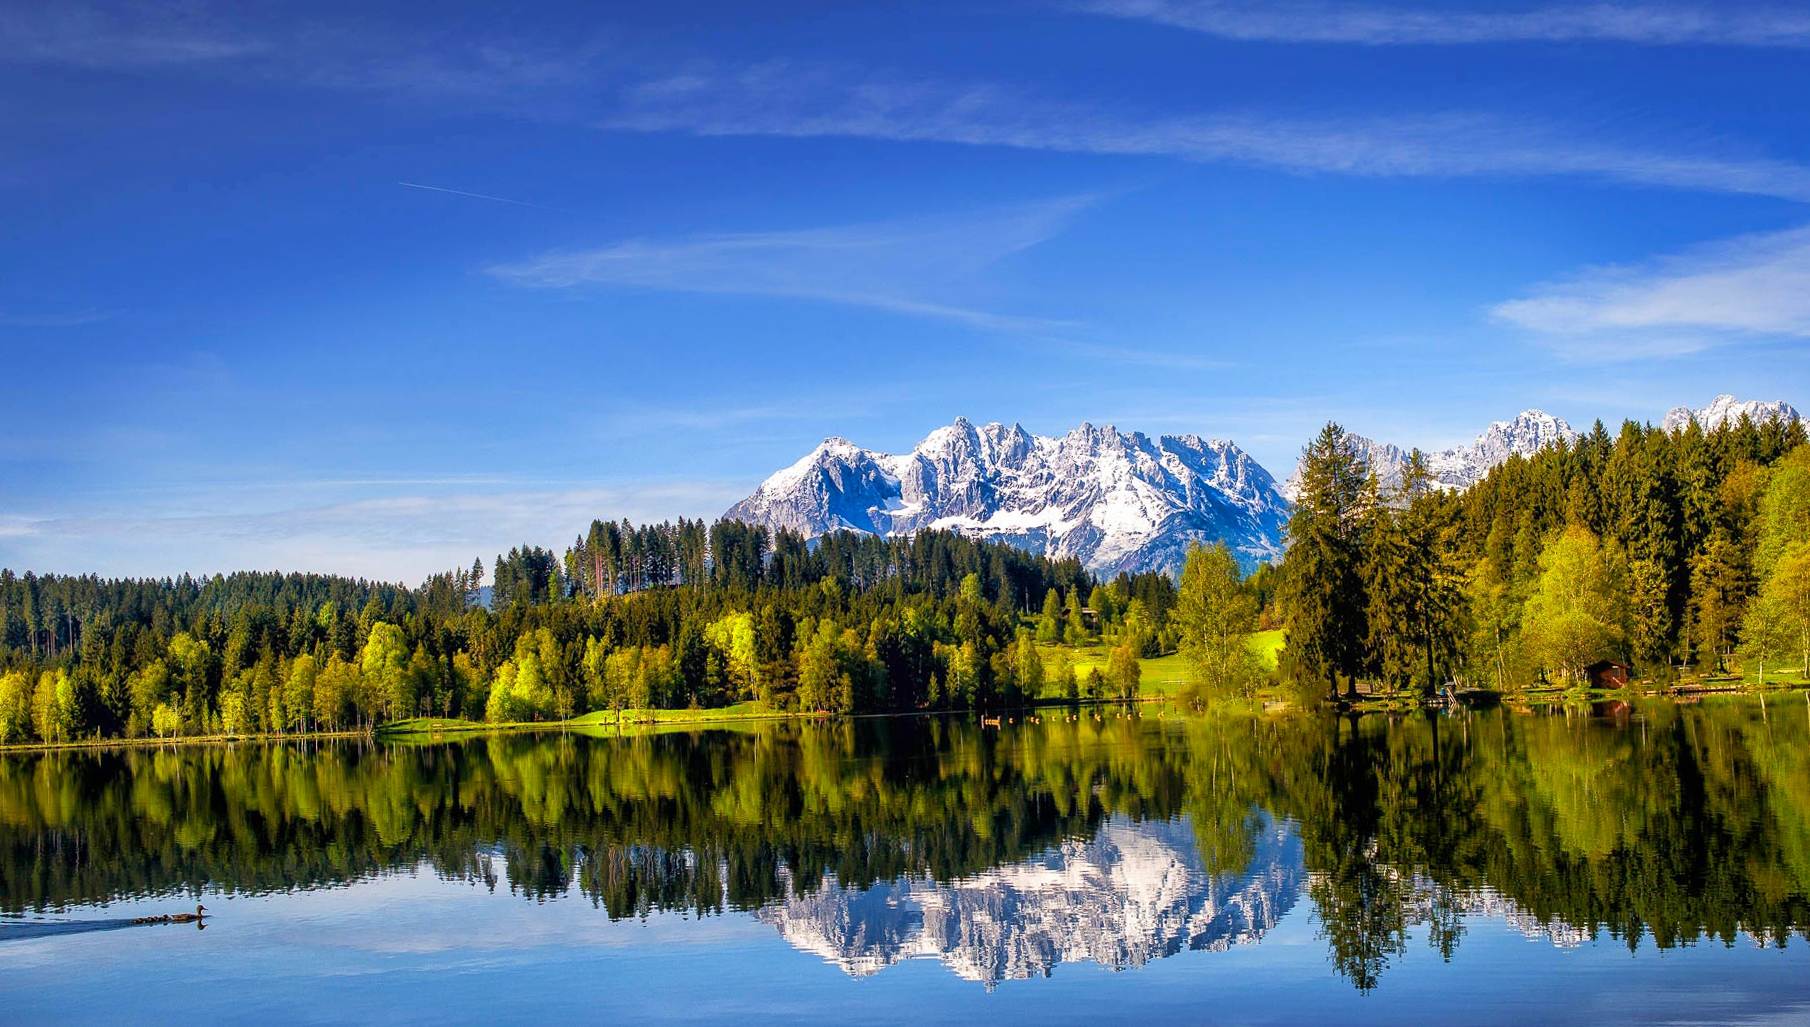
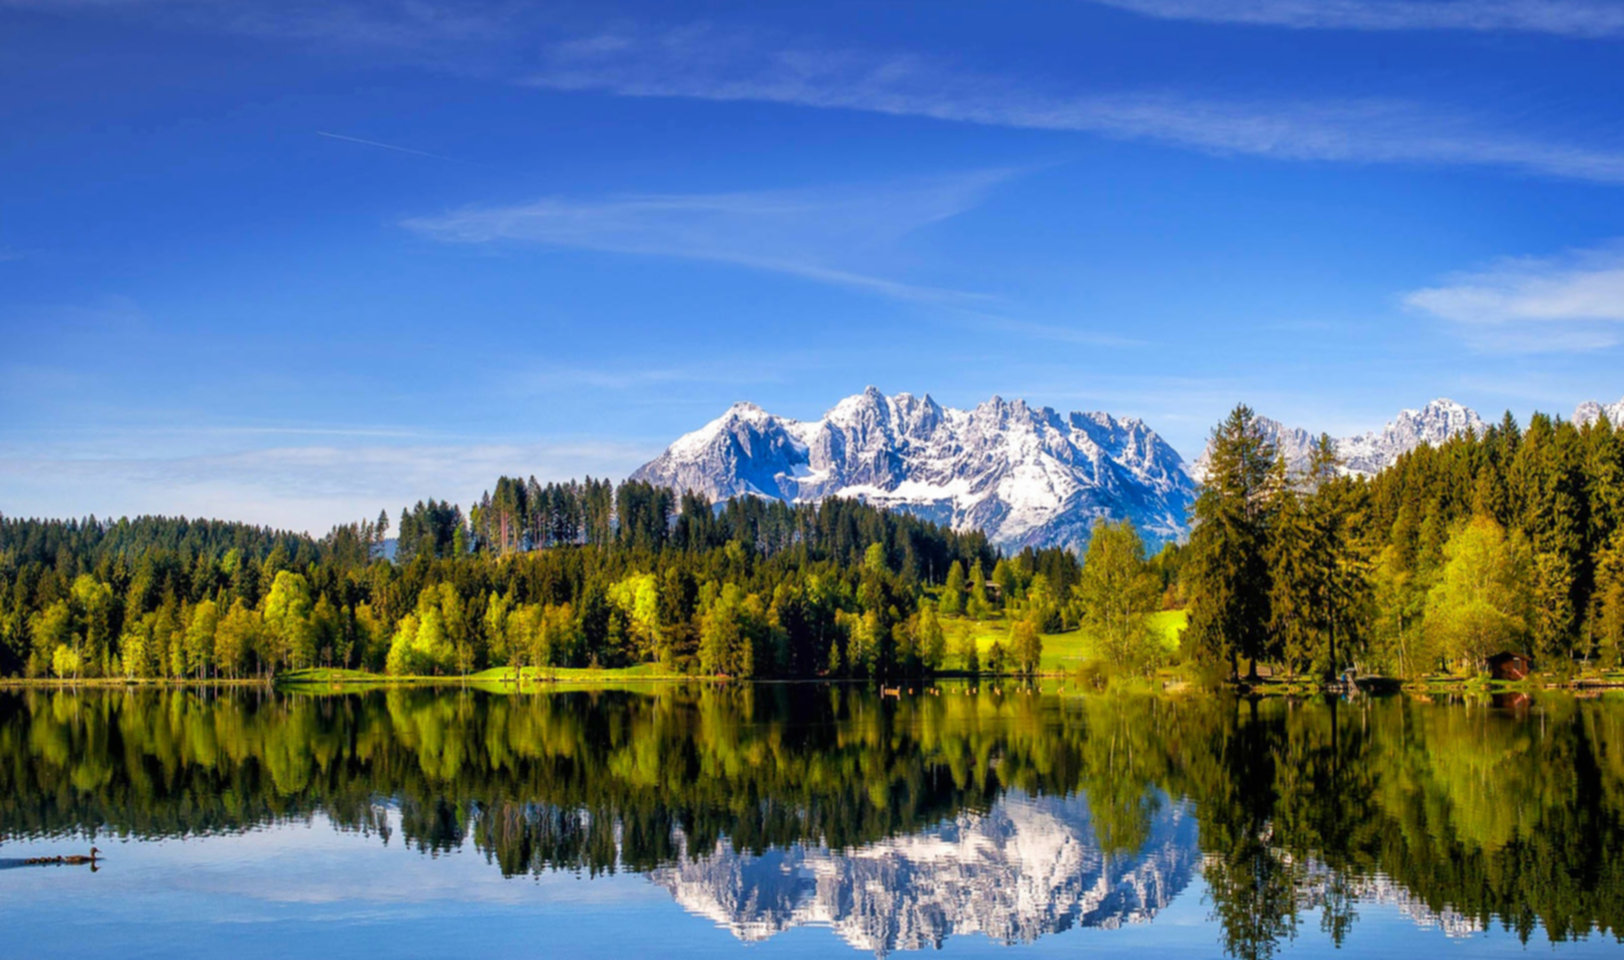
done for the day

diff --git a/src/components/Feature.js b/src/components/Feature.js
@@ -1,10 +1,9 @@
 import React from 'react'
 
-let imgUrl = '../images/hero-bg-cropped.jpg'
+let imgUrl = '../images/hero-bg.jpg'
 
 let style = {
-  backgroundImage: 'url(' + imgUrl + ')',
-  filter: 'blur(2px)'
+  backgroundImage: 'url(' + imgUrl + ')'
 }
 
 const Feature = () => {

diff --git a/src/css/modules/_header.sass b/src/css/modules/_header.sass
@@ -21,6 +21,7 @@ header nav
 	display: flex
 	margin-right: -15px
 
+
 header.dark h2 a
 	color: $primary-color
 
@@ -54,3 +55,7 @@ header.dark nav .link
 	header nav
 		margin-top: 15px
 		margin-right: 0
+
+@include atSmall
+  header nav
+    display: none
